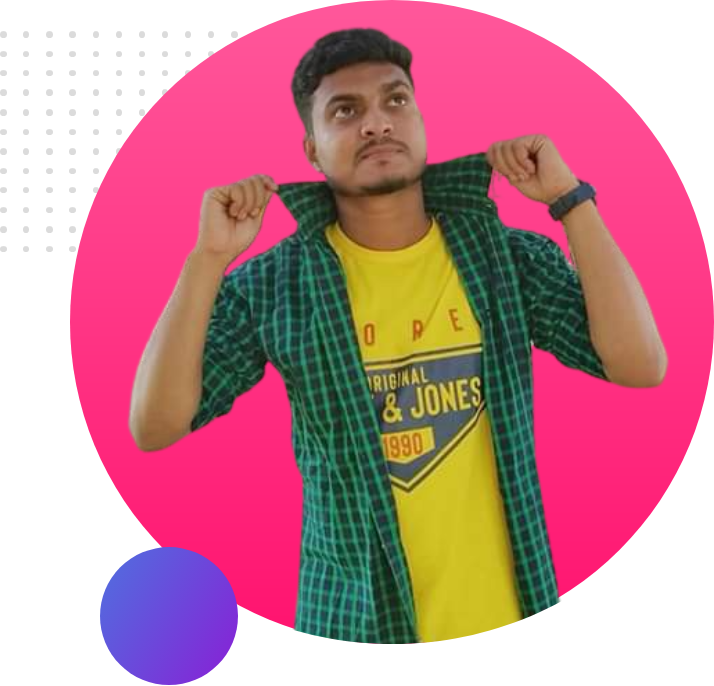
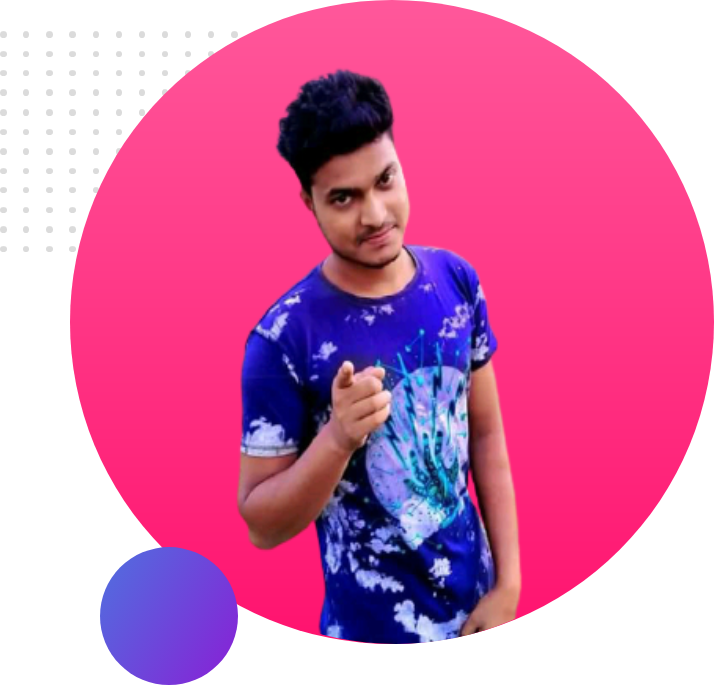
updated

diff --git a/index.html b/index.html
@@ -26,5 +26,18 @@
             <img src="Photos/Jahangir-portfolio.png" alt="">
         </div>
     </section>
+    <section class="dream-big">
+        <div class="half-width">
+            <img src="photos/1Jahangir-portfolio.png" alt="">
+        </div>
+        <div class="half-width">
+            <h1> dream-big </h1>
+            <p> My name is Jahangir Alam. I am 24 years old. My name is Jahangir Alam. I am 24 years old.My name is Jahangir
+            Alam. I am 24 years old.My name is Jahangir Alam. I am 24 years old.My name is Jahangir Alam. I am 24 years
+            old.My name is Jahangir Alam. I am 24 years old.My name is Jahangir Alam. I am 24 years old.My name is Jahangir
+            Alam. I am 24 years old.</p>
+        </div>
+
+    </section>
 </body>
 </html>
